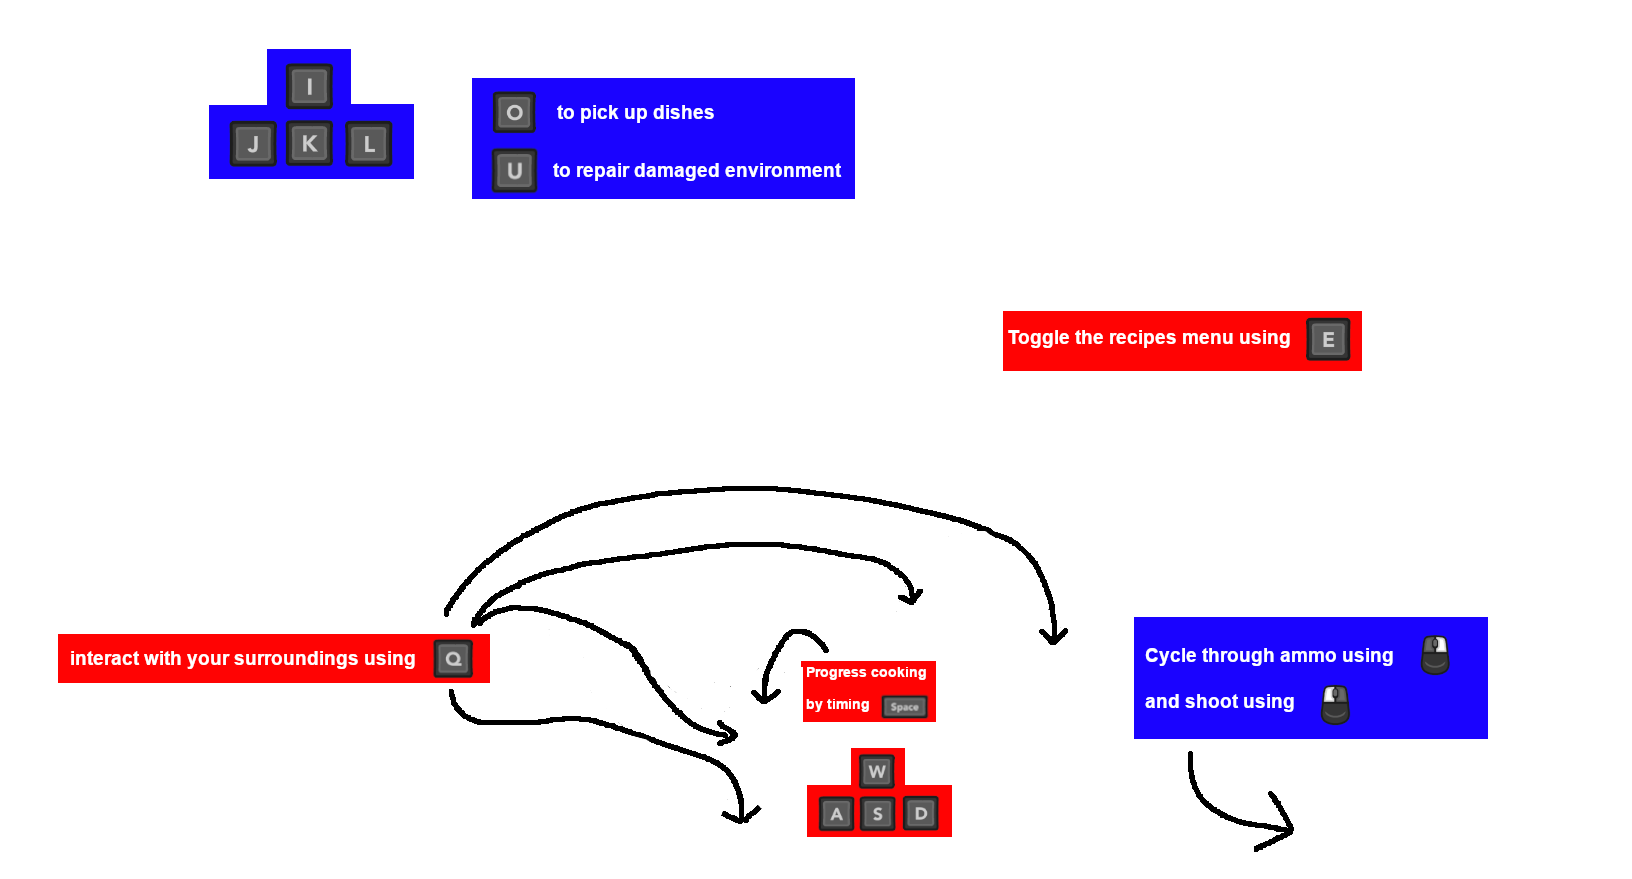
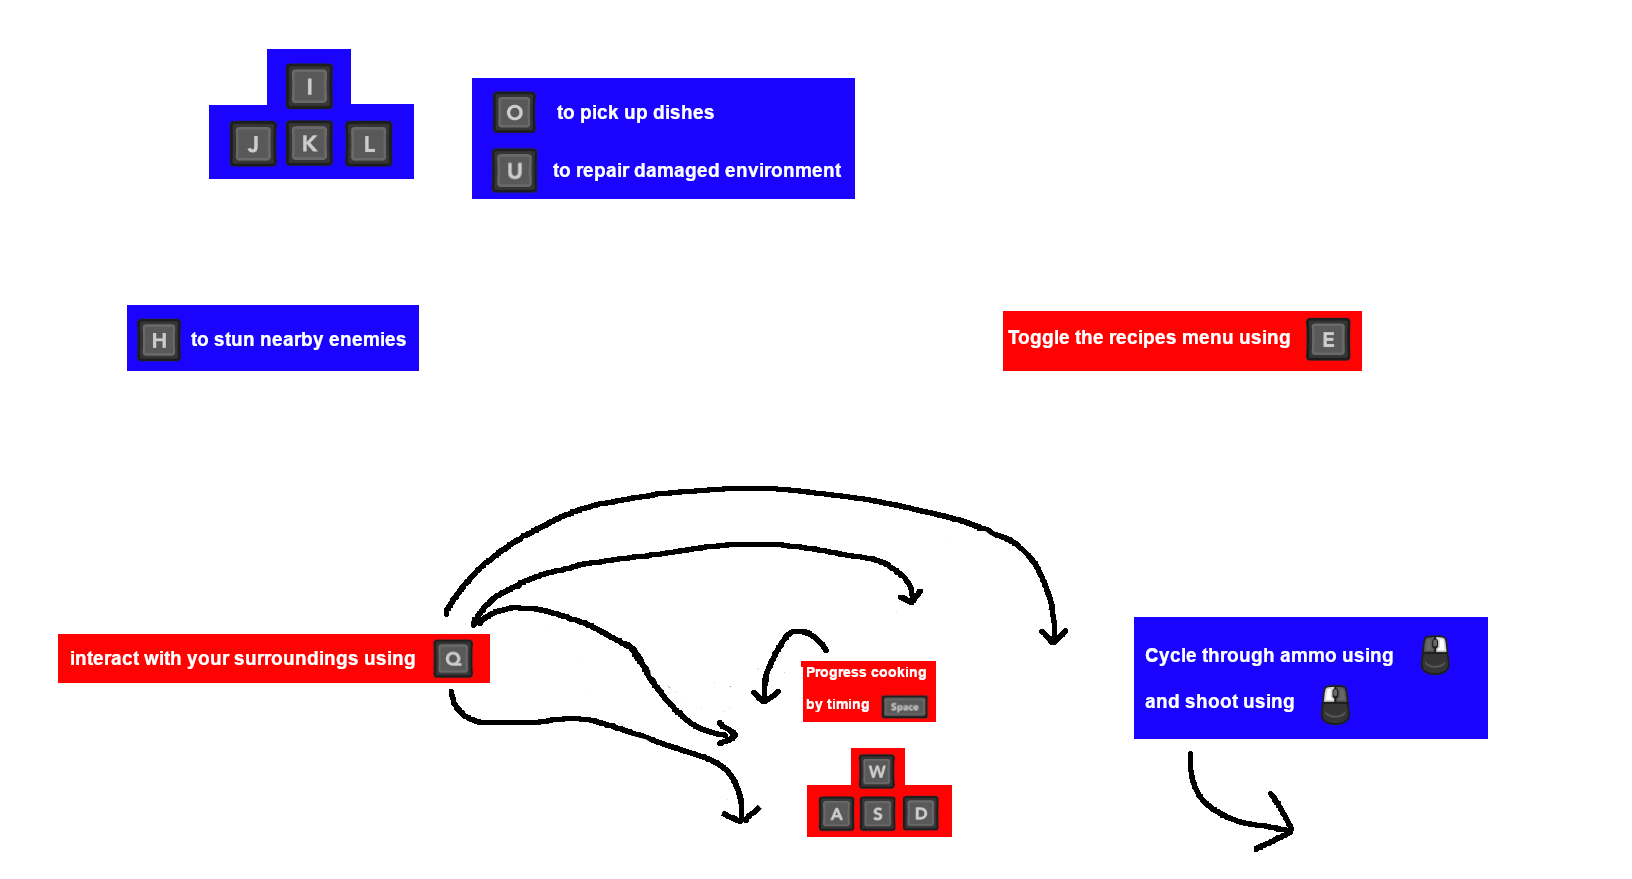
implemented stun area display for shooter & updated StartScreen.png

Changed region(s): [[0.0625, 0.3379, 0.2812, 0.43]]

diff --git a/src/main/java/my_project/model/Shooter.java b/src/main/java/my_project/model/Shooter.java
@@ -1,6 +1,7 @@
 package my_project.model;
 
 import KAGO_framework.model.abitur.datenstrukturen.List;
+import KAGO_framework.view.DrawTool;
 import my_project.model.Environment.CollidableEnvironment;
 
 /**
@@ -12,6 +13,10 @@ public class Shooter extends Player {
     private double stunCooldown;
     private double maxStunCooldown;
 
+    private double stunRadius;
+    private double radiusCooldown;
+    private boolean showStunRadius;
+
     /**
      * @param pX the start x-Position
      * @param pY the stard y-Position
@@ -20,6 +25,47 @@ public class Shooter extends Player {
         super("roeckrath", pX, pY);
         stunCooldown = 0;
         maxStunCooldown = 10;
+        stunRadius = 70;
+        showStunRadius = false;
+    }
+
+    /**
+     * Draws the player and, if showStunRadius is true, draws the area in which enemies are affected by stuns
+     * @param drawTool Required to draw
+     */
+    @Override
+    public void draw(DrawTool drawTool) {
+        super.draw(drawTool);
+
+        if(!showStunRadius)
+            return;
+        drawTool.setCurrentColor(0,0,0,50);
+        drawTool.drawFilledCircle(x + getWidth() / 2, y + getHeight() / 2, stunRadius);
+        drawTool.setCurrentColor(0,0,0,100);
+        drawTool.drawCircle(x + getWidth() / 2, y + getHeight() / 2, stunRadius);
+    }
+
+    /**
+     * sets stun radius to true or false
+     * @param show whether the radius is supposed to be activated or deactivated (true = activated)
+     */
+    public void isStunRadius(boolean show){
+        if(!show) {
+            showStunRadius = false;
+            radiusCooldown = 0;
+            return;
+        }
+
+        showStunRadius = true;
+        radiusCooldown = 0.4;
+    }
+
+    public double getRadiusCooldown() {
+        return radiusCooldown;
+    }
+
+    public void setRadiusCooldown(double pRadiusCooldown) {
+        radiusCooldown = pRadiusCooldown;
     }
 
     public List<CollidableEnvironment> getObjectsInRange() {
@@ -40,5 +86,9 @@ public class Shooter extends Player {
 
     public double getMaxStunCooldown() {
         return maxStunCooldown;
+    }
+
+    public double getStunRadius() {
+        return stunRadius;
     }
 }

diff --git a/src/main/java/my_project/view/InputManager.java b/src/main/java/my_project/view/InputManager.java
@@ -3,7 +3,6 @@ package my_project.view;
 import KAGO_framework.control.ViewController;
 import KAGO_framework.model.InteractiveGraphicalObject;
 import my_project.control.ProgramController;
-import my_project.control.UIController;
 import my_project.model.Cook;
 import my_project.model.Dishes.Dish;
 import my_project.model.Environment.Bin;
@@ -173,13 +172,13 @@ public class InputManager extends InteractiveGraphicalObject {
         if (key == KeyEvent.VK_O && closestObjShooter instanceof Table)
             programController.getDishController().moveToStoredDishes((Table) closestObjShooter);
 
-        if(key == KeyEvent.VK_H && shooter.getStunCooldown()<= 0){
+        if(key == KeyEvent.VK_H){
+            shooter.isStunRadius(true);
+            if(shooter.getStunCooldown() > 0)
+                return;
+
             programController.getEntityController().stunEnemies();
             programController.getUIController().createStunCooldown(programController.getViewController(), new double[]{shooter.getX(), shooter.getY()}, shooter.getMaxStunCooldown());
-
         }
-
-
-
     }
 }

diff --git a/src/main/java/my_project/control/EntityController.java b/src/main/java/my_project/control/EntityController.java
@@ -30,7 +30,6 @@ public class EntityController {
 
         viewController.draw(shooter);
         viewController.draw(cook);
-
     }
 
     /**
@@ -77,6 +76,9 @@ public class EntityController {
             playerDir[1][1] = 0;
         }
         shooter.setStunCooldown(shooter.getStunCooldown() - dt);
+        shooter.setRadiusCooldown(shooter.getRadiusCooldown() - dt);
+        if(shooter.getRadiusCooldown() <= 0)
+            shooter.isStunRadius(false);
 
         checkForScreenAndEnvironCollisions(dt, cook, playerDir[0]);
         cook.setClosestObjectInRange(getClosestObjectInRange(programController.getEnvironmentController().getInteractableEnvironmentObjects(), cook));
@@ -223,7 +225,7 @@ public class EntityController {
         for (int i = 0; i < wave.length; i++) {
             if (wave[i] == null || !wave[i].isActive())
                 continue;
-            if (shooter.getDistanceTo(wave[i]) < 70)
+            if (shooter.getDistanceTo(wave[i]) < shooter.getStunRadius())
                 wave[i].setStunDuration(3.5);
         }
     }

diff --git a/src/main/java/my_project/model/GUI/StunCooldownUI.java b/src/main/java/my_project/model/GUI/StunCooldownUI.java
@@ -15,6 +15,7 @@ public class StunCooldownUI extends UI{
      *
      * @param pX Starting location of the Model
      * @param pY Starting location of the Model
+     * @param pMaxDuration maximum duration that the stun lasts for
      */
     public StunCooldownUI(double pX, double pY, double pMaxDuration) {
         super(pX, pY);
